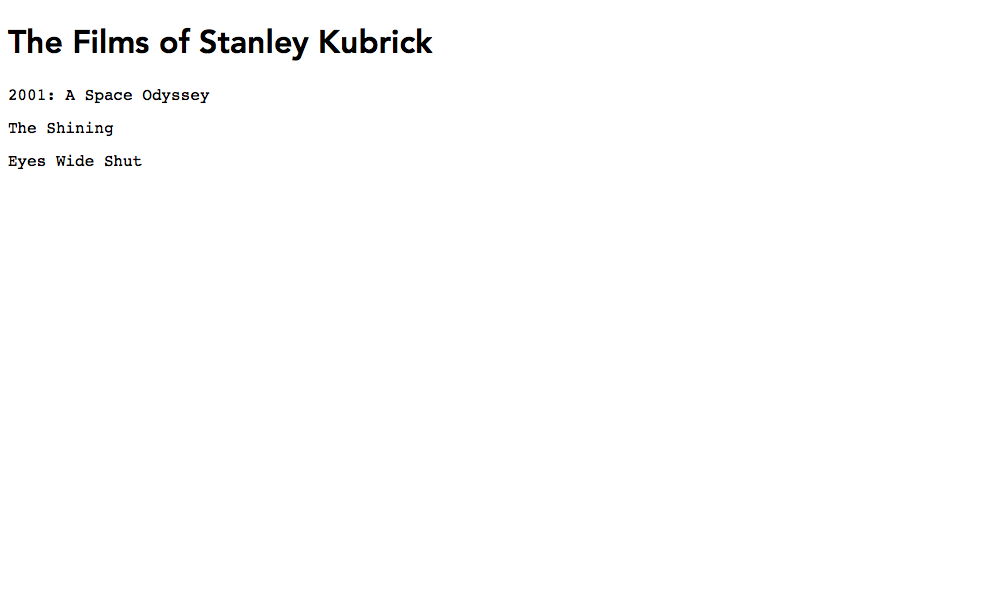
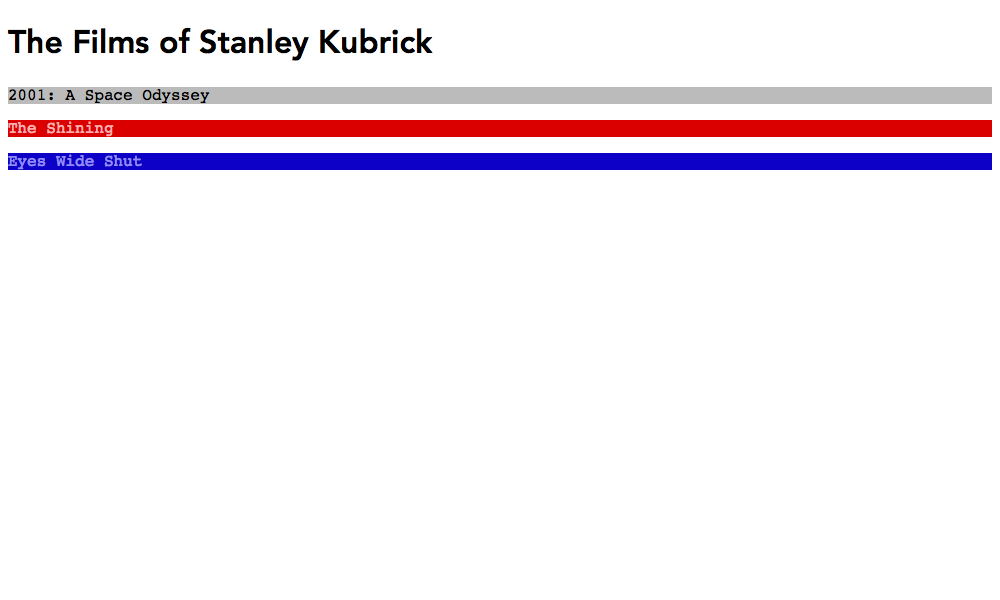
Add film background colors

Changed region(s): [[0.0, 0.12, 0.992, 0.3]]

diff --git a/index.html b/index.html
@@ -6,8 +6,8 @@
 </head>
 <body>
 	<h1>The Films of Stanley Kubrick</h1>
-	<p>2001: A Space Odyssey</p>
-	<p>The Shining</p>
-	<p>Eyes Wide Shut</p>
+	<p class="space">2001: A Space Odyssey</p>
+	<p class="shining">The Shining</p>
+	<p class="eyeswideshut">Eyes Wide Shut</p>
 </body>
 </html>

diff --git a/style.css b/style.css
@@ -5,3 +5,18 @@ h1 {
 p {
   font-family: Courier;
 }
+
+.space {
+	color: #000;
+	background-color: #bbb;
+}
+
+.shining {
+	color: #ffadad;
+	background-color: #db0000;
+}
+
+.eyeswideshut {
+	color: #928aff;
+	background-color: #0d00c7;
+}
